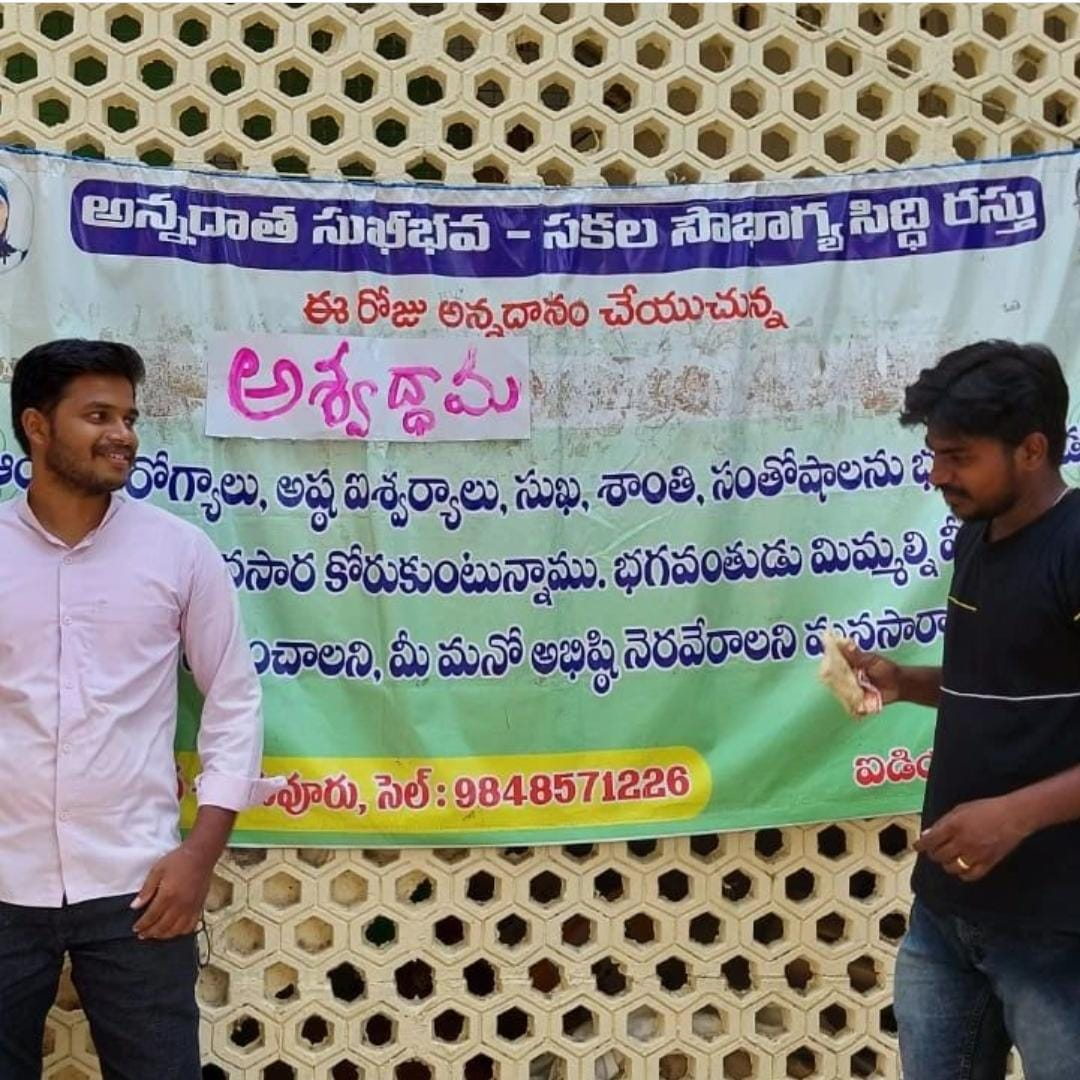
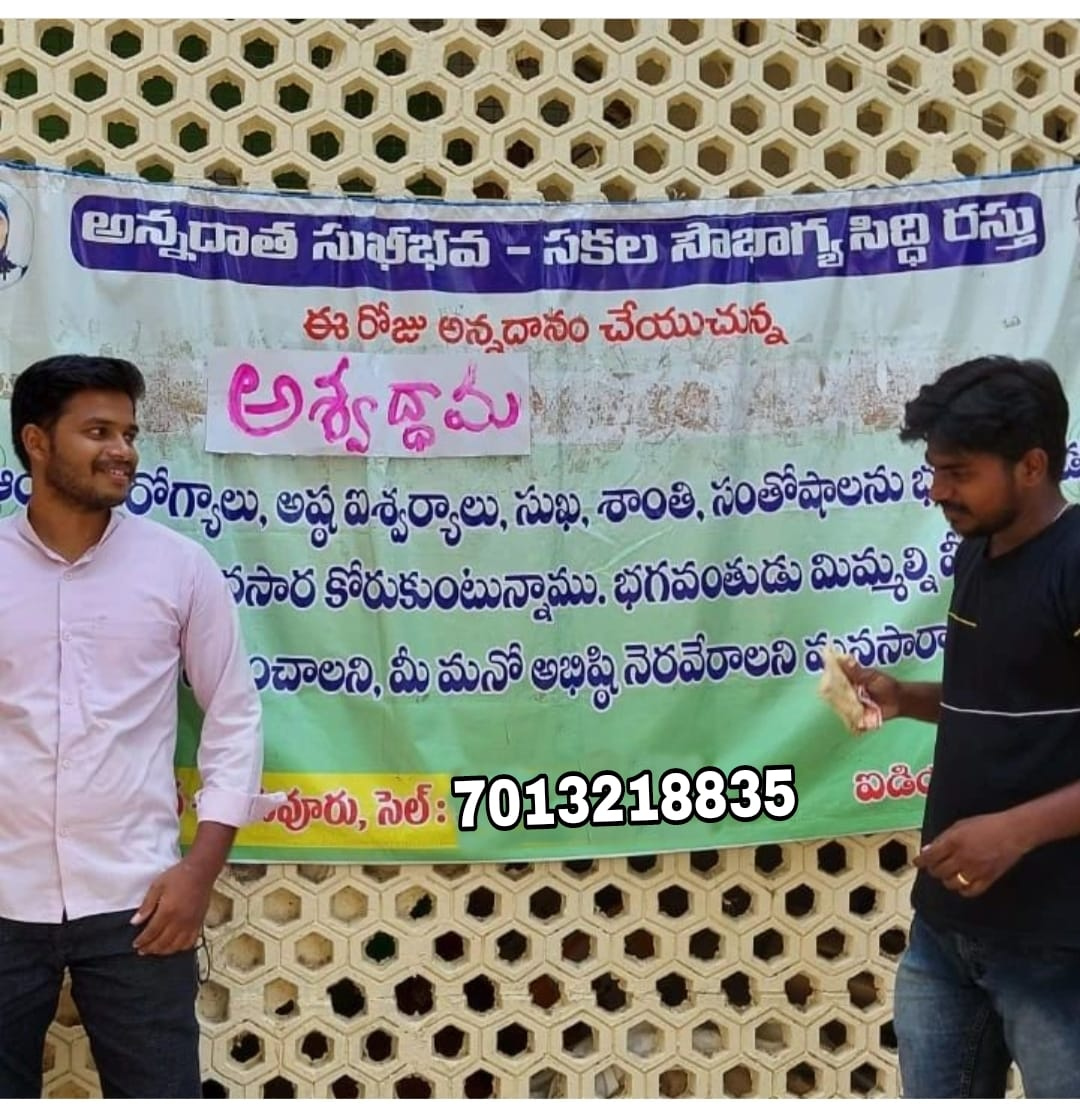
updated images and visiting card

diff --git a/index.html b/index.html
@@ -226,7 +226,7 @@ Licence URI: https://www.os-templates.com/template-terms
 <!-- ################################################################################################ -->
 <!-- ################################################################################################ -->
 <!-- ################################################################################################ -->
-<div class="wrapper bgded" style="background-image:url('images/demo/VisitingCard.jpeg');">
+<div class="wrapper bgded bgcenter" style="background-image:url('images/demo/VisitingCard.jpeg');">
   <div class="hoc split clear">
     <section> 
       <!-- ################################################################################################ -->

diff --git a/layout/styles/framework.css b/layout/styles/framework.css
@@ -29,6 +29,9 @@ html, body{margin:0; padding:0; font-size:14px; line-height:1.6em;}
 .overlay{position:relative; z-index:1;}
 .overlay::after{display:block; position:absolute; top:0; left:0; width:100%; height:100%; content:""; z-index:-1;}
 .bgded{background-position:top center; background-repeat:no-repeat; background-size:cover;}
+.bgcenter{background-position: left center;
+    background-repeat: no-repeat;
+    background-size: contain;}
 .circle{border-radius:50%; background-clip:padding-box;}
 
 .btn{display:inline-block; padding:8px 18px 10px; text-transform:uppercase; border:1px solid;}
